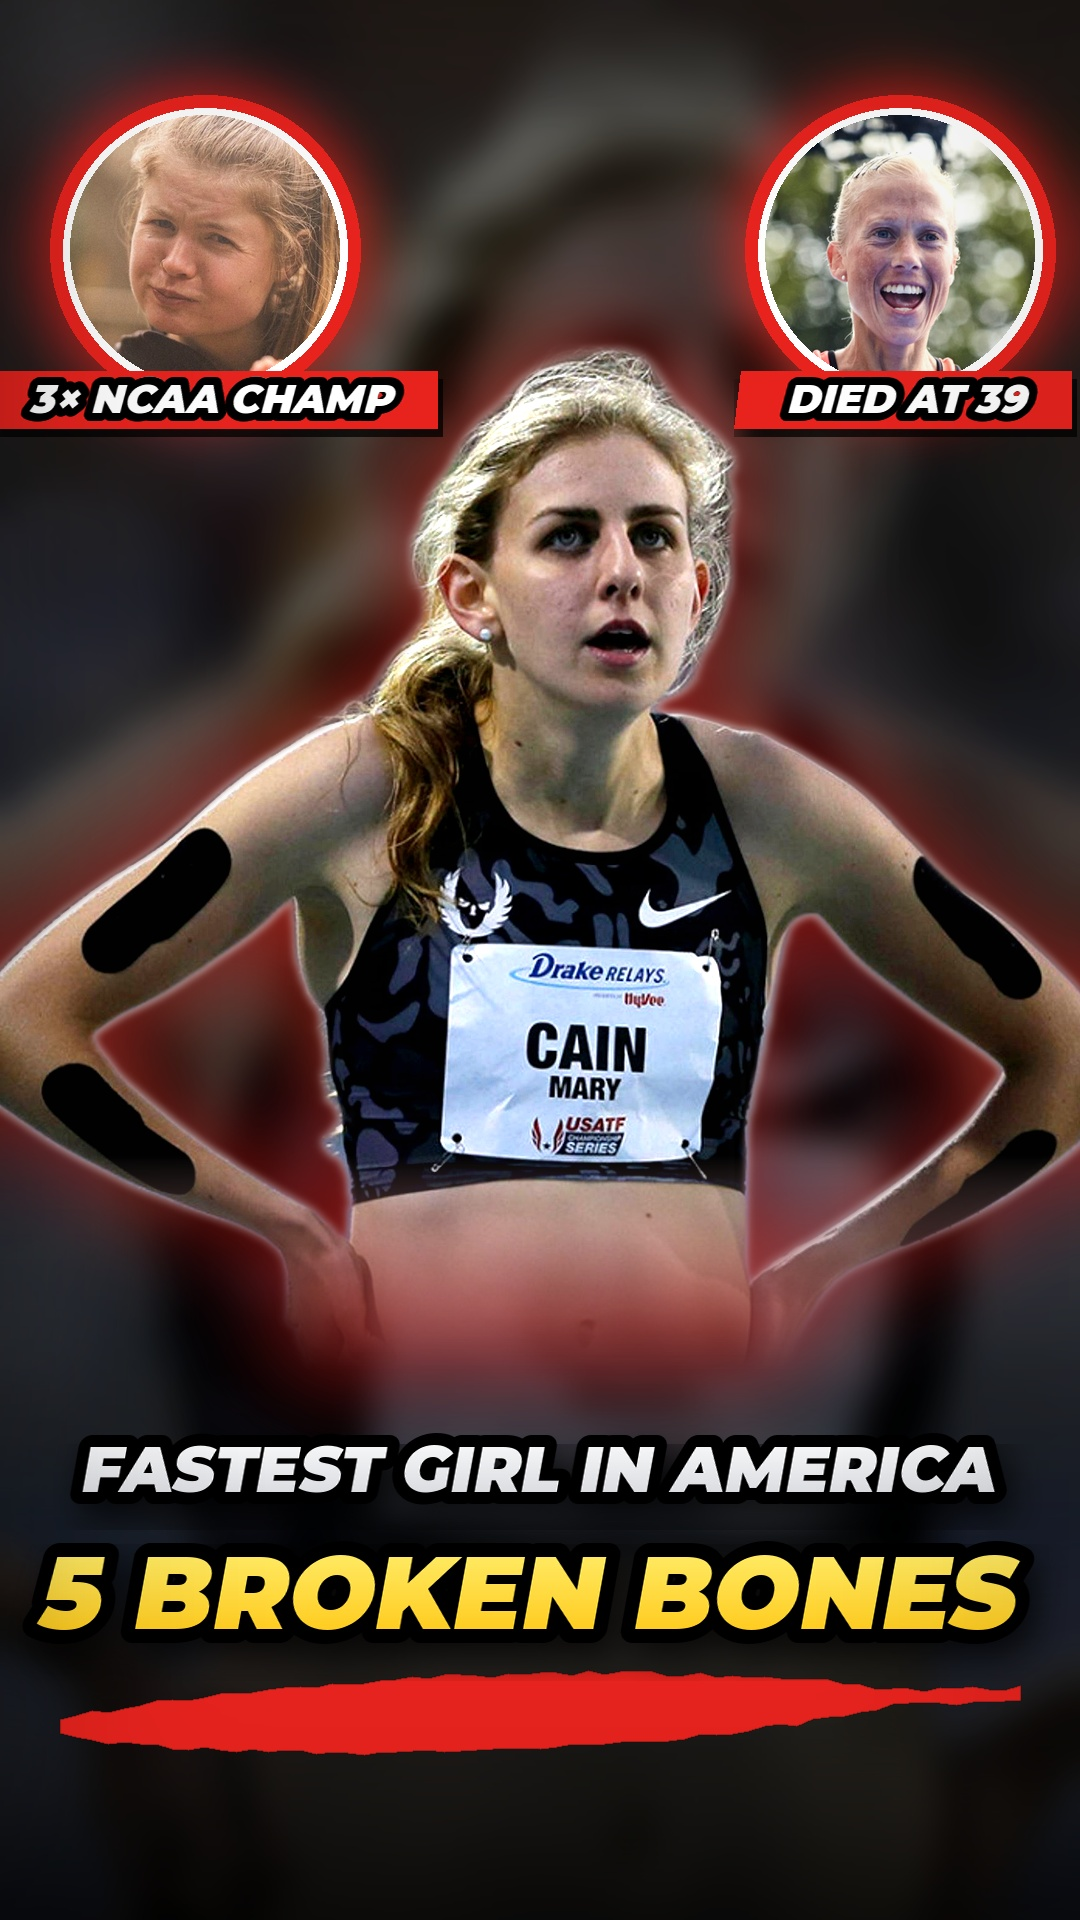
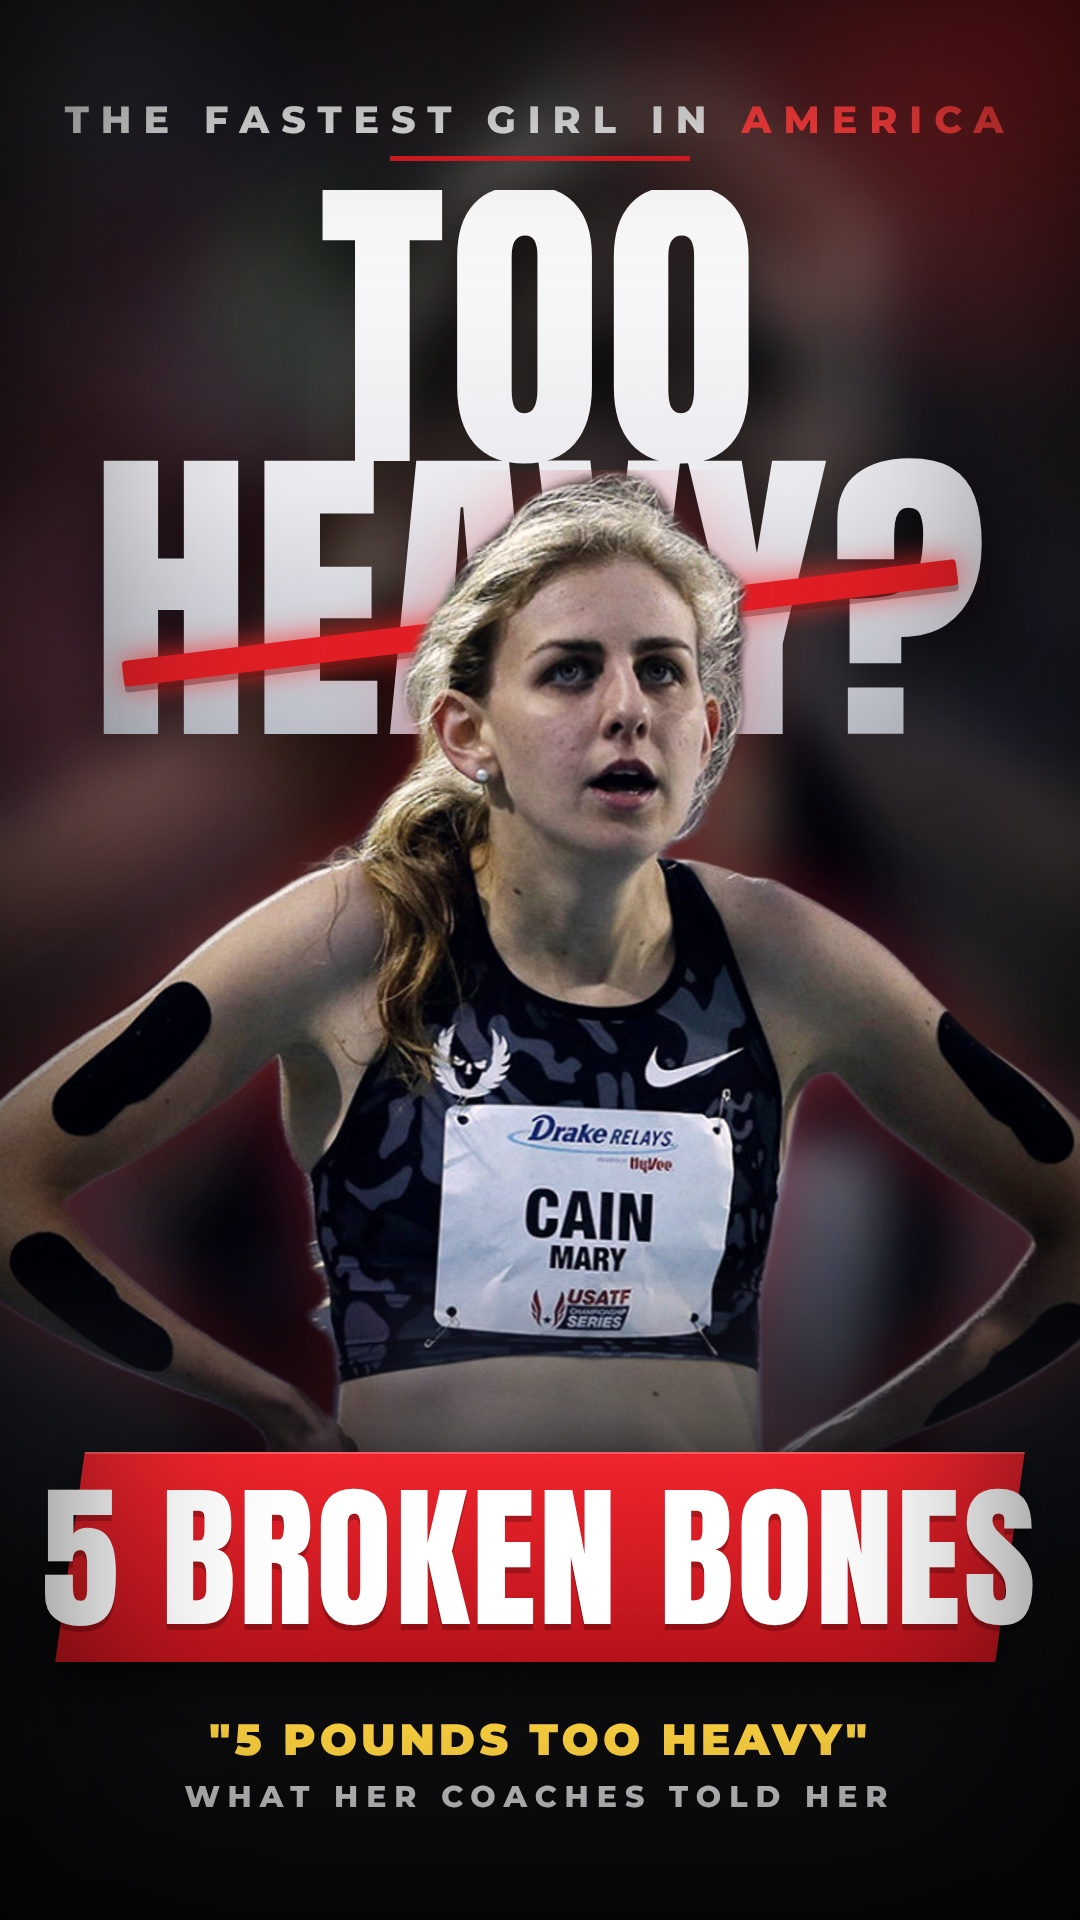
Eat some food: poster-style cover (HTML typeset, cinematic grade); cover rule updated
Claude-Session: https://claude.ai/code/session_01FEcSZznsZ2BZPwxNh3Ednw

diff --git a/projects/eat-some-food/cover/cover.html b/projects/eat-some-food/cover/cover.html
@@ -1,0 +1,35 @@
+<!doctype html><html><head><meta charset="utf-8"><style>
+@font-face{font-family:Anton;src:url(file:///home/user/Erin-Brown-/editor/assets/fonts/Anton-Regular.ttf)}
+@font-face{font-family:MB;src:url(file:///home/user/Erin-Brown-/editor/assets/fonts/Montserrat-Black.ttf)}
+@font-face{font-family:MXB;src:url(file:///home/user/Erin-Brown-/editor/assets/fonts/Montserrat-ExtraBold.ttf)}
+html,body{margin:0;width:1080px;height:1920px;overflow:hidden;background:#09090b}
+.bg{position:absolute;inset:0;background:url(bg.jpg) center/cover}
+.leak{position:absolute;inset:0;background:radial-gradient(900px 700px at 100% 0%,rgba(225,29,36,.55),transparent 60%),radial-gradient(700px 600px at 0% 35%,rgba(225,29,36,.22),transparent 65%),linear-gradient(180deg,rgba(9,9,11,.35) 0%,rgba(9,9,11,0) 30%,rgba(9,9,11,0) 60%,rgba(9,9,11,.92) 82%,#09090b 100%)}
+.kicker{position:absolute;top:96px;left:0;right:0;text-align:center;font-family:MXB;font-size:38px;letter-spacing:12px;color:rgba(255,255,255,.88)}
+.kicker span{color:#ff3b3b}
+.rule{position:absolute;top:156px;left:390px;width:300px;height:5px;background:#e11d24}
+.big{position:absolute;top:190px;left:0;right:0;text-align:center;font-family:Anton;font-size:318px;line-height:.86;letter-spacing:2px;
+ background:linear-gradient(180deg,#ffffff 0%,#e9e9ee 55%,#b9bcc6 100%);-webkit-background-clip:text;color:transparent;
+ filter:drop-shadow(0 18px 30px rgba(0,0,0,.55))}
+.strike{position:absolute;top:610px;left:120px;width:840px;height:26px;background:#e11d24;transform:rotate(-7deg);
+ box-shadow:0 0 30px rgba(255,40,40,.9),0 6px 0 rgba(0,0,0,.35);border-radius:4px}
+.subj{position:absolute;top:470px;left:50%;transform:translateX(-50%);width:1275px;
+ -webkit-mask-image:linear-gradient(180deg,#000 72%,transparent 98%);filter:drop-shadow(0 0 40px rgba(225,29,36,.35))}
+.slab{position:absolute;top:1452px;left:70px;right:70px;height:210px;background:linear-gradient(180deg,#f0232b,#b5121a);
+ transform:skewX(-8deg);box-shadow:0 22px 40px rgba(0,0,0,.6),inset 0 2px 0 rgba(255,255,255,.25)}
+.slabt{position:absolute;top:1452px;left:0;right:0;height:210px;line-height:212px;text-align:center;font-family:Anton;font-size:156px;white-space:nowrap;
+ color:#fff;letter-spacing:3px;text-shadow:0 6px 0 rgba(0,0,0,.25)}
+.sub{position:absolute;top:1712px;left:0;right:0;text-align:center;font-family:MB;font-size:44px;letter-spacing:4px;color:#ffd23f}
+.sub2{position:absolute;top:1778px;left:0;right:0;text-align:center;font-family:MXB;font-size:30px;letter-spacing:8px;color:rgba(255,255,255,.75)}
+.grain{position:absolute;inset:0;opacity:.13;mix-blend-mode:overlay}
+.vig{position:absolute;inset:0;box-shadow:inset 0 0 260px rgba(0,0,0,.85)}
+</style></head><body>
+<div class="bg"></div><div class="leak"></div>
+<div class="kicker">THE FASTEST GIRL IN <span>AMERICA</span></div><div class="rule"></div>
+<div class="big">TOO<br>HEAVY?</div><div class="strike"></div>
+<img class="subj" src="subject.png">
+<div class="slab"></div><div class="slabt">5 BROKEN BONES</div>
+<div class="sub">"5 POUNDS TOO HEAVY"</div><div class="sub2">WHAT HER COACHES TOLD HER</div>
+<svg class="grain" width="1080" height="1920"><filter id="n"><feTurbulence type="fractalNoise" baseFrequency=".9" numOctaves="2" stitchTiles="stitch"/></filter><rect width="100%" height="100%" filter="url(#n)"/></svg>
+<div class="vig"></div>
+</body></html>

diff --git a/projects/eat-some-food/cover/render.js b/projects/eat-some-food/cover/render.js
@@ -1,0 +1,6 @@
+const { chromium } = require('playwright');
+(async () => {
+  const b = await chromium.launch(); const p = await b.newPage({ viewport: { width: 1080, height: 1920 } });
+  await p.goto('file://' + process.argv[2]); await p.waitForTimeout(500);
+  await p.screenshot({ path: process.argv[3], type: 'jpeg', quality: 95 }); await b.close();
+})();

diff --git a/projects/eat-some-food/cover/layers.py b/projects/eat-some-food/cover/layers.py
@@ -1,0 +1,22 @@
+"""Cover layers from the official Sports Illustrated photo of Mary Cain (3000x1688, downscaled only):
+a graded full-bleed background and a cut-out subject PNG, composed in cover/cover.html."""
+import numpy as np
+from PIL import Image, ImageFilter, ImageEnhance
+from rembg import remove, new_session
+W, H = 1080, 1920
+P = Image.open('ph/press/si_cain.jpg').convert('RGB')
+def film(im, warm=1.0):
+    a = np.asarray(im).astype(np.float32) / 255
+    a = a + 0.14 * (a - 0.5) * (1 - np.abs(2 * a - 1))                         # S-curve
+    lum = a.mean(axis=2, keepdims=True)
+    a = a * (1 - 0.18) + lum * 0.18                                            # slight desat
+    a[..., 0] += 0.03 * warm * lum[..., 0]; a[..., 2] += 0.05 * (1 - lum[..., 0]) - 0.02   # warm highs, teal shadows
+    return Image.fromarray((np.clip(a, 0, 1) * 255).astype(np.uint8))
+SC = 0.66
+Ps = P.resize((int(P.width * SC), int(P.height * SC)), Image.LANCZOS)
+m = remove(Ps, session=new_session('u2net_human_seg'), only_mask=True).filter(ImageFilter.MinFilter(3)).filter(ImageFilter.GaussianBlur(1.0))
+subj = film(ImageEnhance.Sharpness(Ps).enhance(1.3), 1.2).convert('RGBA'); subj.putalpha(m)
+bb = m.point(lambda v: 255 if v > 40 else 0).getbbox(); subj = subj.crop(bb); subj.save('cover/subject.png')
+bg = P.crop((P.width // 2 - 480, 0, P.width // 2 + 480, P.height)).resize((W, H), Image.LANCZOS).filter(ImageFilter.GaussianBlur(26))
+bg = film(ImageEnhance.Brightness(bg).enhance(0.5), 0.6); bg.save('cover/bg.jpg', quality=95)
+print('subject', subj.size)

diff --git a/CLAUDE.md b/CLAUDE.md
@@ -170,6 +170,7 @@ The owner said viewers called the old edits "regular Claude editing" with "stick
 8. **Make a cover thumbnail** for every video in the style of the covers the owner currently uses (he sent examples on Nov 10, 2026, and rejected a split close-up and a plain photo with Anton text).
    - **Format:** 9:16, 1080×1920 JPG, saved to `exports/thumbnails/<video>_thumb.jpg`. Also save a 3:4 grid crop (`_thumb_3x4.jpg`), with everything important inside it. Deliver both to Dropbox with the video.
    - **Photos (owner, Nov 18, 2026):** official, high-quality photos of the athletes in the story only, e.g. press photos from the news articles (their lead images, at the largest size the site serves) or race photos he sends. **No screen grabs from videos, and never the owner himself.** Make it a designed graphic, not a plain photo.
+   - **Design (owner, Nov 18, 2026: "the font sucks, the coloring sucks… make it eye-catching and high quality"):** magazine-poster layout, typeset in HTML and rendered with Playwright (see `projects/eat-some-food/cover/`). That means a cinematic grade with film grain, a small tracked kicker, a giant condensed headline *behind* the cut-out athlete, a clean skewed red slab for the key fact, and a gold quote line. No clip-art arrows or brush swipes on these.
    - **Background:** one sharp, full-bleed real photo (no AI images). The subject is cut out (rembg `u2net_human_seg`) and graded punchy, and the background is slightly blurred and darkened.
    - **Headline:** a big, bold, slanted headline in Montserrat Black: a white line over a yellow-gradient line, black stroke, drop shadow, with a tapered red brush swipe under it (e.g. "THE NEXT / BOLT?", "NO ARMS / NO LIMITS").
    - **Extras when they help the story:** a circle inset with a white/red ring and glow, a short red label tag, and a curved red arrow with a white outline pointing at the subject.
